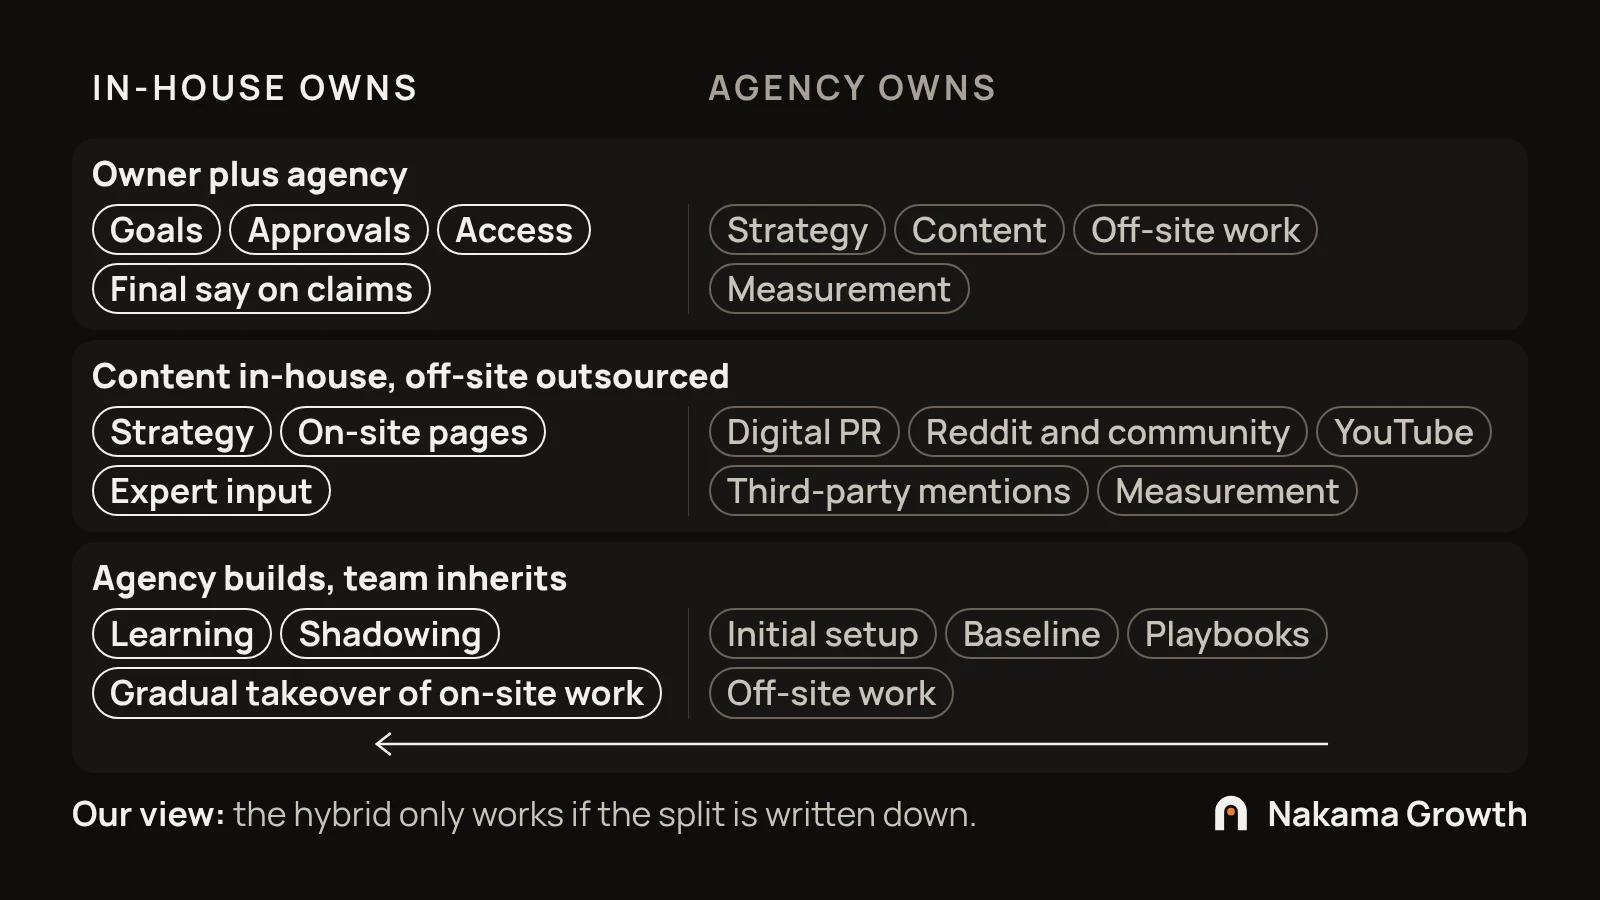
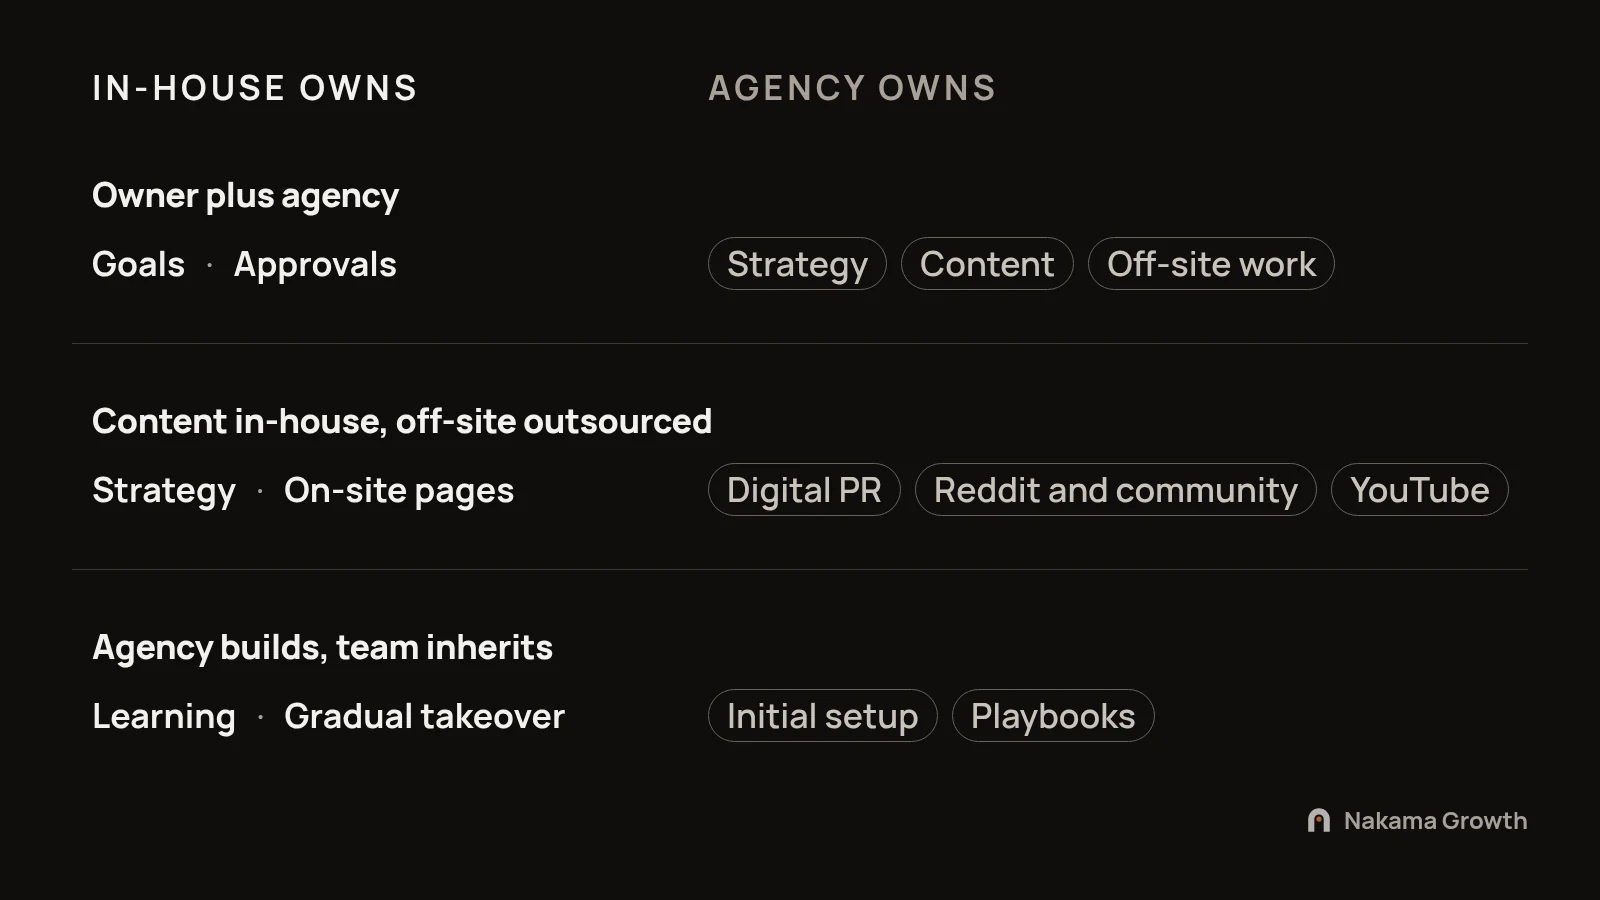
Ship the GEO agency vs in-house journal note.
Yash GO sets PREVIEW false so the note is indexable and enters the sitemap, llms files, RSS, resources, and Sandeep's author page through feedArticles. Swaps in the Sozo-cleared V1.0.4 hybrid models figure (1600x900) and updates its alt. PUBLISHED_AT stays 2026-11-10.

diff --git a/app/journal/geo-agency-vs-in-house.ts b/app/journal/geo-agency-vs-in-house.ts
@@ -12,7 +12,7 @@ import styles from './geo-agency-vs-in-house.module.css';
  */
 const PUBLISHED_AT = '2026-11-10T09:00:00+05:30';
 const MODIFIED_AT = PUBLISHED_AT;
-const PREVIEW = true;
+const PREVIEW = false;
 
 const dayOf = (iso: string) => iso.slice(0, 10);
 
@@ -31,7 +31,7 @@ const DESCRIPTION = 'In-house AEO or GEO team, agency or tools? Compare off-site
 const CANONICAL = `https://www.nakama.in/journal/${SLUG}`;
 const COVER_ALT = 'Nakama Growth journal cover: in-house AEO or GEO team vs agency vs tools, a guide to choosing the right model.';
 const OG_ALT = 'In-House AEO Team vs Agency vs Tools: Which to Pick? A Nakama Growth decision guide.';
-const HYBRID_ALT = 'Three hybrid AEO and GEO models showing which work stays in-house and which an agency owns: owner plus agency, content in-house with off-site outsourced, and agency builds then team inherits.';
+const HYBRID_ALT = 'Three hybrid AEO and GEO models showing what stays in-house and what an agency owns: owner plus agency, content in-house with off-site outsourced, and agency builds then team inherits.';
 const RAMP_ALT = 'Our view: a 90-day ramp for a new in-house AEO or GEO team, from access and baseline, to first pages and outreach, to repeat measurement.';
 const HERO_URL = `${CANONICAL}/geo-agency-vs-in-house-cover.webp`;
 const OG_URL = `${CANONICAL}/geo-agency-vs-in-house-og.png`;
